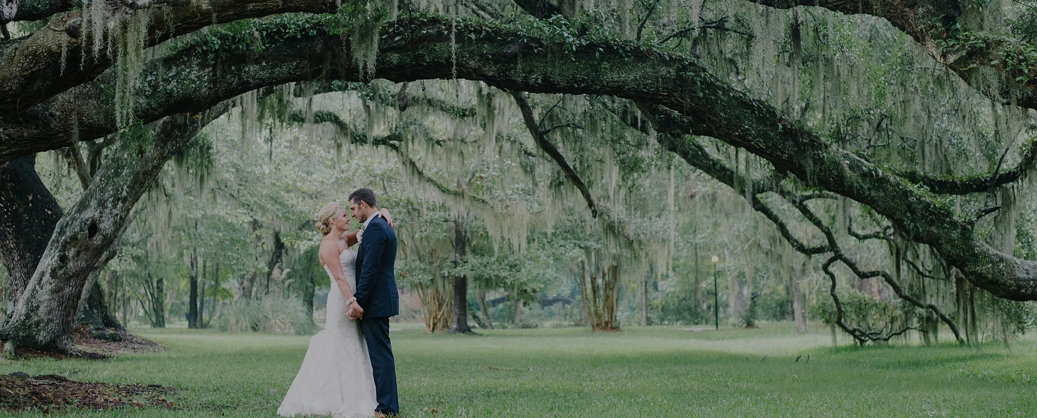
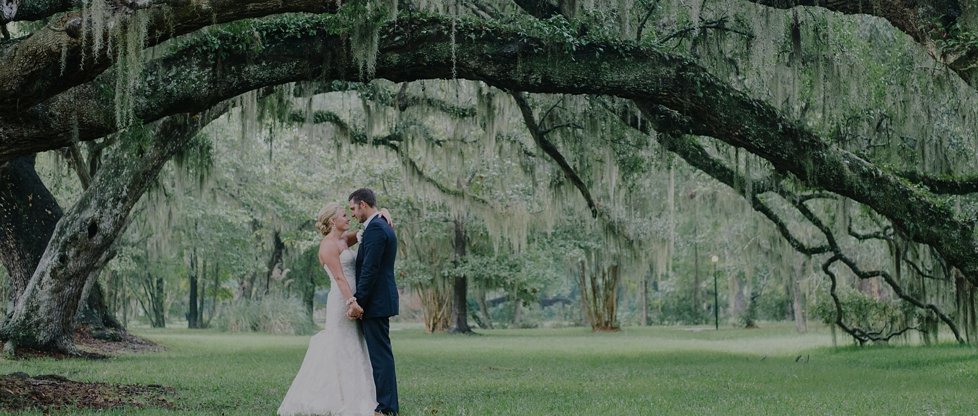
final

diff --git a/index.html b/index.html
@@ -54,9 +54,12 @@
 
     <div id="carouselExampleCaptions" class="carousel slide" data-bs-ride="carousel">
       <div class="carousel-indicators">
-        <button type="button" data-bs-target="#carouselExampleCaptions" data-bs-slide-to="0" class="active" aria-current="true" aria-label="Slide 1"></button>
-        <button type="button" data-bs-target="#carouselExampleCaptions" data-bs-slide-to="1" aria-label="Slide 2"></button>
-        <button type="button" data-bs-target="#carouselExampleCaptions" data-bs-slide-to="2" aria-label="Slide 3"></button>
+        <button type="button" data-bs-target="#carouselExampleCaptions" data-bs-slide-to="0" class="active"
+          aria-current="true" aria-label="Slide 1"></button>
+        <button type="button" data-bs-target="#carouselExampleCaptions" data-bs-slide-to="1"
+          aria-label="Slide 2"></button>
+        <button type="button" data-bs-target="#carouselExampleCaptions" data-bs-slide-to="2"
+          aria-label="Slide 3"></button>
       </div>
       <div class="carousel-inner">
         <div class="carousel-item active banner">
@@ -87,11 +90,13 @@
           </div>
         </div>
       </div>
-      <button class="carousel-control-prev" type="button" data-bs-target="#carouselExampleCaptions" data-bs-slide="prev">
+      <button class="carousel-control-prev" type="button" data-bs-target="#carouselExampleCaptions"
+        data-bs-slide="prev">
         <span class="carousel-control-prev-icon" aria-hidden="true"></span>
         <span class="visually-hidden">Previous</span>
       </button>
-      <button class="carousel-control-next" type="button" data-bs-target="#carouselExampleCaptions" data-bs-slide="next">
+      <button class="carousel-control-next" type="button" data-bs-target="#carouselExampleCaptions"
+        data-bs-slide="next">
         <span class="carousel-control-next-icon" aria-hidden="true"></span>
         <span class="visually-hidden">Next</span>
       </button>
@@ -100,7 +105,7 @@
   </header>
 
   <!-- Main Starts header -->
-  <main class="container">
+  <main class="container container-sm px-sm-5">
 
     <!------------
     Album Section 
@@ -109,15 +114,17 @@
     <section>
       <div class="row gx-5">
         <div class="col-lg-6 col-sm-12">
-          <img src="images/images/p5.jpg" class="pt-5 rounded-3" width="450px" alt="">
+          <img src="images/images/p5.jpg" class="pt-5 rounded-3 w-100" width="450px" alt="">
         </div>
         <div class="col-lg-6 col-sm-12 align-self-center">
-          <div class="w-75 pt-5 ">
+          <div class="w-sm-100 pt-5 ">
             <h1>Every moment is Precious </h1>
-            <p>Amet minim mollit non deserunt ullamco est sit aliqua dolor do amet sint. Velit officia consequat duis
+            <p class="d-sm flex justify-content-sm-center">Amet minim mollit non deserunt ullamco est sit aliqua dolor
+              do amet sint. Velit officia consequat duis
               enim velit mollit. Exercitation veniam consequat sunt nostrud amet.
             </p>
-            <button type="button" class="btn btn-dark text-white">Explore our album <i class="bi bi-arrow-right"></i></button>
+            <button type="button" class="btn btn-dark text-white">Explore our album <i
+                class="bi bi-arrow-right"></i></button>
           </div>
         </div>
       </div>
@@ -131,7 +138,7 @@
       <h1 class="d-flex justify-content-center pb-5">Our package</h1>
       <div class="row ">
         <div class="col-lg-3 col-sm-12">
-          <div class="card border-0 shadow p-3 mb-5 bg-body pt-5 cards">
+          <div class="card border-0 shadow p-3 mb-5 bg-body pt-5 w-100 cards">
             <h1 class="card-title">$300</h1>
             <h3>Business Fair</h3>
             <p class="card-text text-muted"> For most businesses event like book fair, craft fair.</p>
@@ -147,7 +154,7 @@
           </div>
         </div>
         <div class="col-lg-3 col-sm-12">
-          <div class="card border-0 shadow p-3 mb-5 bg-body pt-5 cards">
+          <div class="card border-0 shadow p-3 mb-5 bg-body pt-5 w-100 cards">
             <h1 class="card-title">$500</h1>
             <h3>Wedding basic</h3>
             <p class="card-text text-muted"> For most businesses event like book fair, craft fair.</p>
@@ -163,7 +170,7 @@
           </div>
         </div>
         <div class="col-lg-3 col-sm-12">
-          <div class="card border-0 shadow-lg p-3 mb-5 cards hot-card ">
+          <div class="card border-0 shadow-lg p-3 mb-5 w-100 cards hot-card " style="background-image: url(images/images/card-bg.jpg); background-size: 310px;">
             <h1 class="card-title card-font">$800</h1>
             <h3 class="card-font">Wedding plus</h3>
             <p class="card-text "> For most businesses event like book fair, craft fair.</p>
@@ -182,7 +189,7 @@
           </div>
         </div>
         <div class="col-lg-3 col-sm-12">
-          <div class="card border-0 shadow p-3 mb-5 bg-body pt-5 cards">
+          <div class="card border-0 shadow p-3 mb-5 bg-body pt-5 w-100 cards">
             <h1 class="card-title">$1200</h1>
             <h3>Corporate event</h3>
             <p class="card-text text-muted"> For most businesses event like book fair, craft fair.</p>
@@ -312,7 +319,7 @@
         <div class="col-lg-6 col-sm-12 mb-5">
           <img
             src="images/images/Download free vector of Vector image of question mark icon about question, isometric, faq, question mark, and 3d icons 382160.jfif"
-            class="rounded-3" width="500px" alt="">
+            class="rounded-3 w-100" alt="">
         </div>
       </div>
     </section>
@@ -322,30 +329,30 @@
   <!-----------
      Footer 
   ------------->
+
   <footer>
-    <footer>
-      <section class=" bg-dark text-white">
-        <div class="container d-flex justify-content-between align-items-center">
-          <p>©2022. All Rights reserved</p>
-          <div>
-            <ul class="ms-auto footer-contact">
-              <li>
-                <h4 class="mt-5">Get The App</h4>
-              </li>
-              <li>
-                <a href=""><img src="images/images/app-store-png-logo-33123.png" alt="">
-                </a>
-              </li>
-            </ul>
-          </div>
+    <section class=" bg-dark text-white">
+      <div class="container d-flex justify-content-between align-items-center">
+        <p>©2022. All Rights reserved</p>
+        <div>
+          <ul class="ms-auto footer-contact">
+            <li>
+              <h4 class="mt-5">Get The App</h4>
+            </li>
+            <li>
+              <a href=""><img src="images/images/app-store-png-logo-33123.png" style="width: 145px;" alt="">
+              </a>
+            </li>
+          </ul>
         </div>
-      </section>
-    </footer>
+      </div>
+    </section>
+  </footer>
 
-    <!-- JS cdn -->
+  <!-- JS cdn -->
 
-    <script src="js/bootstrap.bundle.min.js"></script>
-    
+  <script src="js/bootstrap.bundle.min.js"></script>
+
 </body>
 
 </html>

diff --git a/css/style.css b/css/style.css
@@ -1,19 +1,10 @@
-.banner img{
-	width: 1440px;
-	height: 540px;
-}
+
 .cards{
 	border-radius: 22px;
 	transition:all 1.5s ease;
 }
 .cards:hover{
-	transform: scale(1.2);
-}
-.hot-card{
-
-	background-image: url(/images/images/card-bg.jpg); 
-	background-repeat: no-repeat;
-	background-size: 310px;
+	transform: scale(1.1);
 }
 .card-font{
 	color: white;
@@ -29,9 +20,6 @@ ul li{
 .bi-arrow-right-circle-fill{
 color: rgb(190, 207, 229);
 }
-footer img{
-	width: 145px;
-}
 .happy-client img{
 	width: 100px;
 }
@@ -42,19 +30,6 @@ footer img{
 	opacity: 1;
 	transition:1.5s;
 }
-.footer-contact{
-	padding: 0px;
-	margin: 0px;
-}
 
 
-@media only screen and (max-width: 600px) {
-	.banner img{
-		width: 360px;
-		height: 300px;;
-	}
-	.hot-card{
-		background-size:560px;
-	}
-}
 
